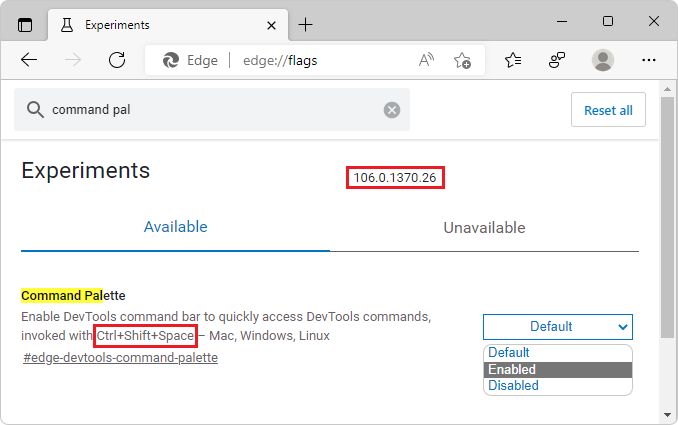
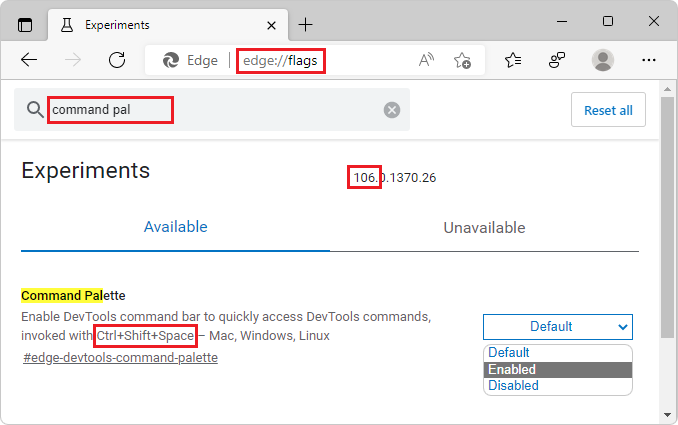
enabling Command Palette

diff --git a/microsoft-edge/devtools-guide-chromium/whats-new/2022/09/devtools-106.md b/microsoft-edge/devtools-guide-chromium/whats-new/2022/09/devtools-106.md
@@ -17,20 +17,40 @@ ms.date: 09/29/2022
 
 <!-- Subtitle: Your favorite browser management and DevTools commands in one place. -->
 
-Command Palette makes it possible to access browser management and developer tools commands with just one keyboard shortcut: `Ctrl`+`Shift`+`Spacebar`.  To access the available browser management commands and DevTools commands, press `Ctrl`+`Shift`+`Spacebar`, and then start typing.  The commands are filtered based on your input characters:
+In Microsoft Edge 106, you can now enable and use the Command Palette experiment.  Command Palette makes it possible to access browser management and developer tools commands with just one keyboard shortcut: `Ctrl`+`Shift`+`Spacebar`.
 
-![Microsoft Edge Command Palette](./devtools-106-images/command-palette.png)
 
-To list or filter the available DevTools commands, press `Ctrl`+`Shift`+`Spacebar`, and then enter the greater-than (**>**) character:
+To enable the Command Palette experiment:
 
-![Microsoft Edge Command Palette entering `>` to select DevTools commands](./devtools-106-images/command-palette-devtools.png)
+1. Go to `edge://flags`.  Then in the **Search flags** text field, start typing **Command Palette**.
 
-<!--
-*  In Microsoft Edge 106 and most releases of 107, the keyboard shortcut is `Ctrl`+`Shift`+`Spacebar`.
-*  In Microsoft Edge 108 and later, the shortcut is `Ctrl`+`Q`. -->
-The keyboard shortcut is shown on the `edge://flags` page, in the **Command Palette** section:
+1. In the **Command Palette** dropdown menu, select **Enabled**:
 
-![The keyboard shortcut for Command Palette in the flags page for version 106](./devtools-106-images/command-palette-flags-shortcut-106.png)
+   <!-- screenshot directly in What's New, to show where to see the keyboard shortcut along with version:-->
+   ![The keyboard shortcut for Command Palette in the flags page for version 106](./devtools-106-images/command-palette-flags-shortcut-106.png)
+
+   Note the keyboard shortcut, which is shown in the **Command Palette** section on the `edge://flags` page.
+   <!--
+   *  In Microsoft Edge 106 and most releases of 107, the keyboard shortcut is `Ctrl`+`Shift`+`Spacebar`.
+   *  In Microsoft Edge 108 and later, the shortcut is `Ctrl`+`Q`. -->
+
+1. Click the **Restart** button, which appears in the lower right when you select **Enabled**.
+
+   For more information, see [Enable Command Palette](../../../experimental-features/edge-command-palette.md#enable-command-palette) in _Run commands via keyboard with Command Palette_.
+
+
+To quickly access the available browser management commands and DevTools commands, after you've enabled the experiment:
+
+1. In Microsoft Edge (with or without DevTools open), press `Ctrl`+`Shift`+`Spacebar`.
+
+1. Start typing.  The commands are filtered based on your input characters, and are grouped into categories such as **Suggestions**, **History**, and **DevTools**:
+
+   ![Microsoft Edge Command Palette](./devtools-106-images/command-palette.png)
+
+1. To narrow the filtering to list DevTools commands only, type the greater-than (**>**) character:
+
+   ![Microsoft Edge Command Palette entering `>` to select DevTools commands](./devtools-106-images/command-palette-devtools.png)
+
 
 Let us know what commands you'd like to see in future versions of Microsoft Edge, by posting a comment in [Issue 73: [feedback] Command Palette experiment](https://github.com/MicrosoftEdge/DevTools/issues/73) in the **MicrosoftEdge/DevTools** repo!
 
